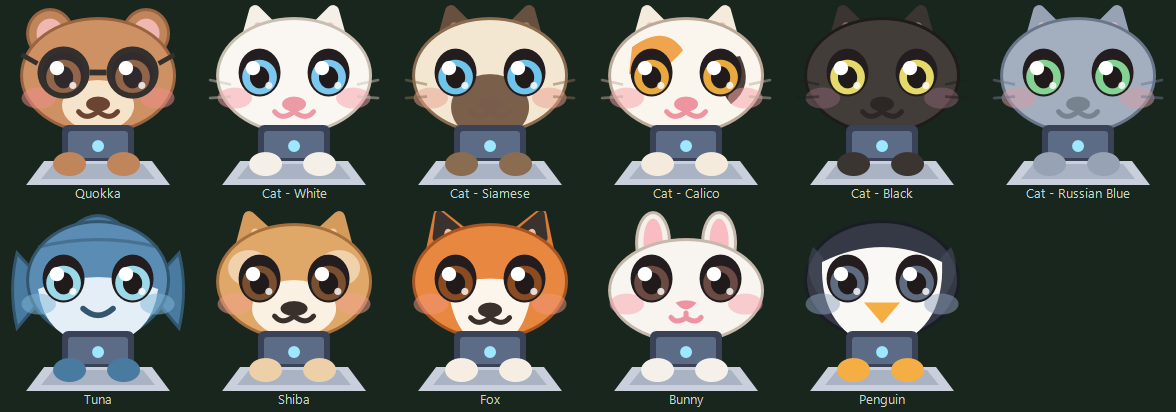
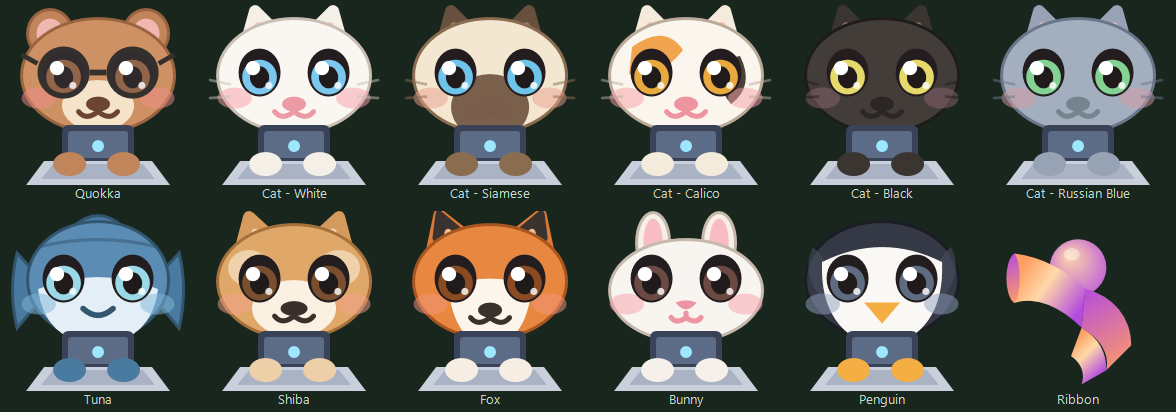
Redraw the ribbon as the Scout mark, not a coil
The first version was made without having seen the icon it was named after. It
was a descending helix; the real mark is a broad sash folded into an S with a
sphere in the upper nook. Not the same object.

Getting there took six attempts, and the useful part is why the first four
failed: concentric loops read as a donut, a helix read as a spring, and two
filled S outlines read as crescents because laying out a top and a bottom edge
by hand kept pinching them together. A single fat stroke then read as a bent
tube. What makes a ribbon look flat is straight edges and a pinch where it turns
edge-on, so the shape is now filled polygons with a visible twist.

Eyeballing curves was the wrong method, so the geometry is measured instead:

- the icon's silhouette is traced row by row and candidates scored against it by
  overlap, which is what caught the donut and the crescents immediately,
- the gradient runs at 34 degrees, taken from the centroid of the icon's warm
  pixels against the centroid of its cool ones rather than picked by eye,
- three gradient stops rather than two, because a two-stop ramp lost the bright
  middle and the sash stopped reading as a lit surface.

Worth recording that the overlap score stopped being useful past about 80%: the
best-scoring version was three disconnected blobs. The number found the gross
errors, and judgement finished the job.

Also:

- Every gradient stop now animates together. Leaving the middle stop and the
[…]

Changed region(s): [[0.8571, 0.5825, 0.9796, 0.932], [0.8878, 0.9612, 0.949, 0.9903]]

diff --git a/README.md b/README.md
@@ -45,7 +45,8 @@ place.
 - **Live progress toast** — streams the agent's current activity as readable steps
   (e.g. "Reading config.json", "Running: git commit ...") with a ✓/▸ status list, plus
   the agent's latest narration.
-- **A mascot to keep you company** — pick from eleven, including five cats. It types while
+- **A mascot to keep you company** — pick from twelve, including five cats and one
+  that is not an animal at all. It types while
   the agent is busy, tilts its head and opens its eyes wide when it needs something from
   you, breathes gently when idle, and blinks throughout, so you can tell at a glance
   whether work is happening (see [Mascots](#mascots)).
@@ -87,7 +88,7 @@ place.
 
 ## Mascots
 
-Eleven to choose from, switchable from the settings window without restarting:
+Twelve to choose from, switchable from the settings window without restarting:
 
 <img src="docs/mascots.png" width="720">
 
@@ -96,9 +97,16 @@ cost so little to keep around — they share one drawing and differ only in fur,
 and eye colour. Adding a new colourway is a few lines; adding a new animal is one
 function.
 
+**Ribbon** is the exception: no face, no laptop, no paws. It is a band of light that
+turns about its own vertical axis and drifts through the colour wheel, taking about
+eight seconds to come round. When something is waiting on you the drift stops wandering
+and settles into a narrow shimmer around that state's colour, so it reinforces the toast
+rather than competing with it. Mascots carry an optional `Desk` flag for this — off means
+"does not sit at a laptop", and the laptop and paws are hidden.
+
 The tray icon follows your choice too, reduced to whatever survives at 16 px — ear shape
-for the mammals, fins for the tuna, beak for the penguin — while still carrying the state
-colour.
+for the mammals, fins for the tuna, beak for the penguin, a ring under an orb for the
+ribbon — while still carrying the state colour.
 
 
 ## Requirements
@@ -156,7 +164,7 @@ Right-click the tray icon and choose **Settings**, or click the ⚙ on the toast
 |---------|--------------|
 | **Start automatically with Scout** | Adds or removes the `Watch-Scout.ps1` shortcut in your Startup folder. Per-user, no registry writes, no admin rights. The checkbox reads the real state of the folder, so editing it outside the app still shows up correctly. |
 | **Animate the mascot** | Off leaves the mascot in a resting pose and stops its timer entirely. Shares one setting with **Pause animation** in the tray menu. |
-| **Mascot** | Switches between the eleven mascots live, no restart needed. |
+| **Mascot** | Switches between the twelve mascots live, no restart needed. |
 | **Opacity** | Fades the whole toast, from solid down to 35%. Useful if you want it present but not loud. Applies as you drag; the value is saved once you settle. The 35% floor is deliberate — a fully transparent window would still swallow clicks. |
 | **This process** | Live working set, CPU and uptime for the companion itself, so "how much is this costing me?" does not require hunting through Task Manager for the right `powershell.exe`. |
 
